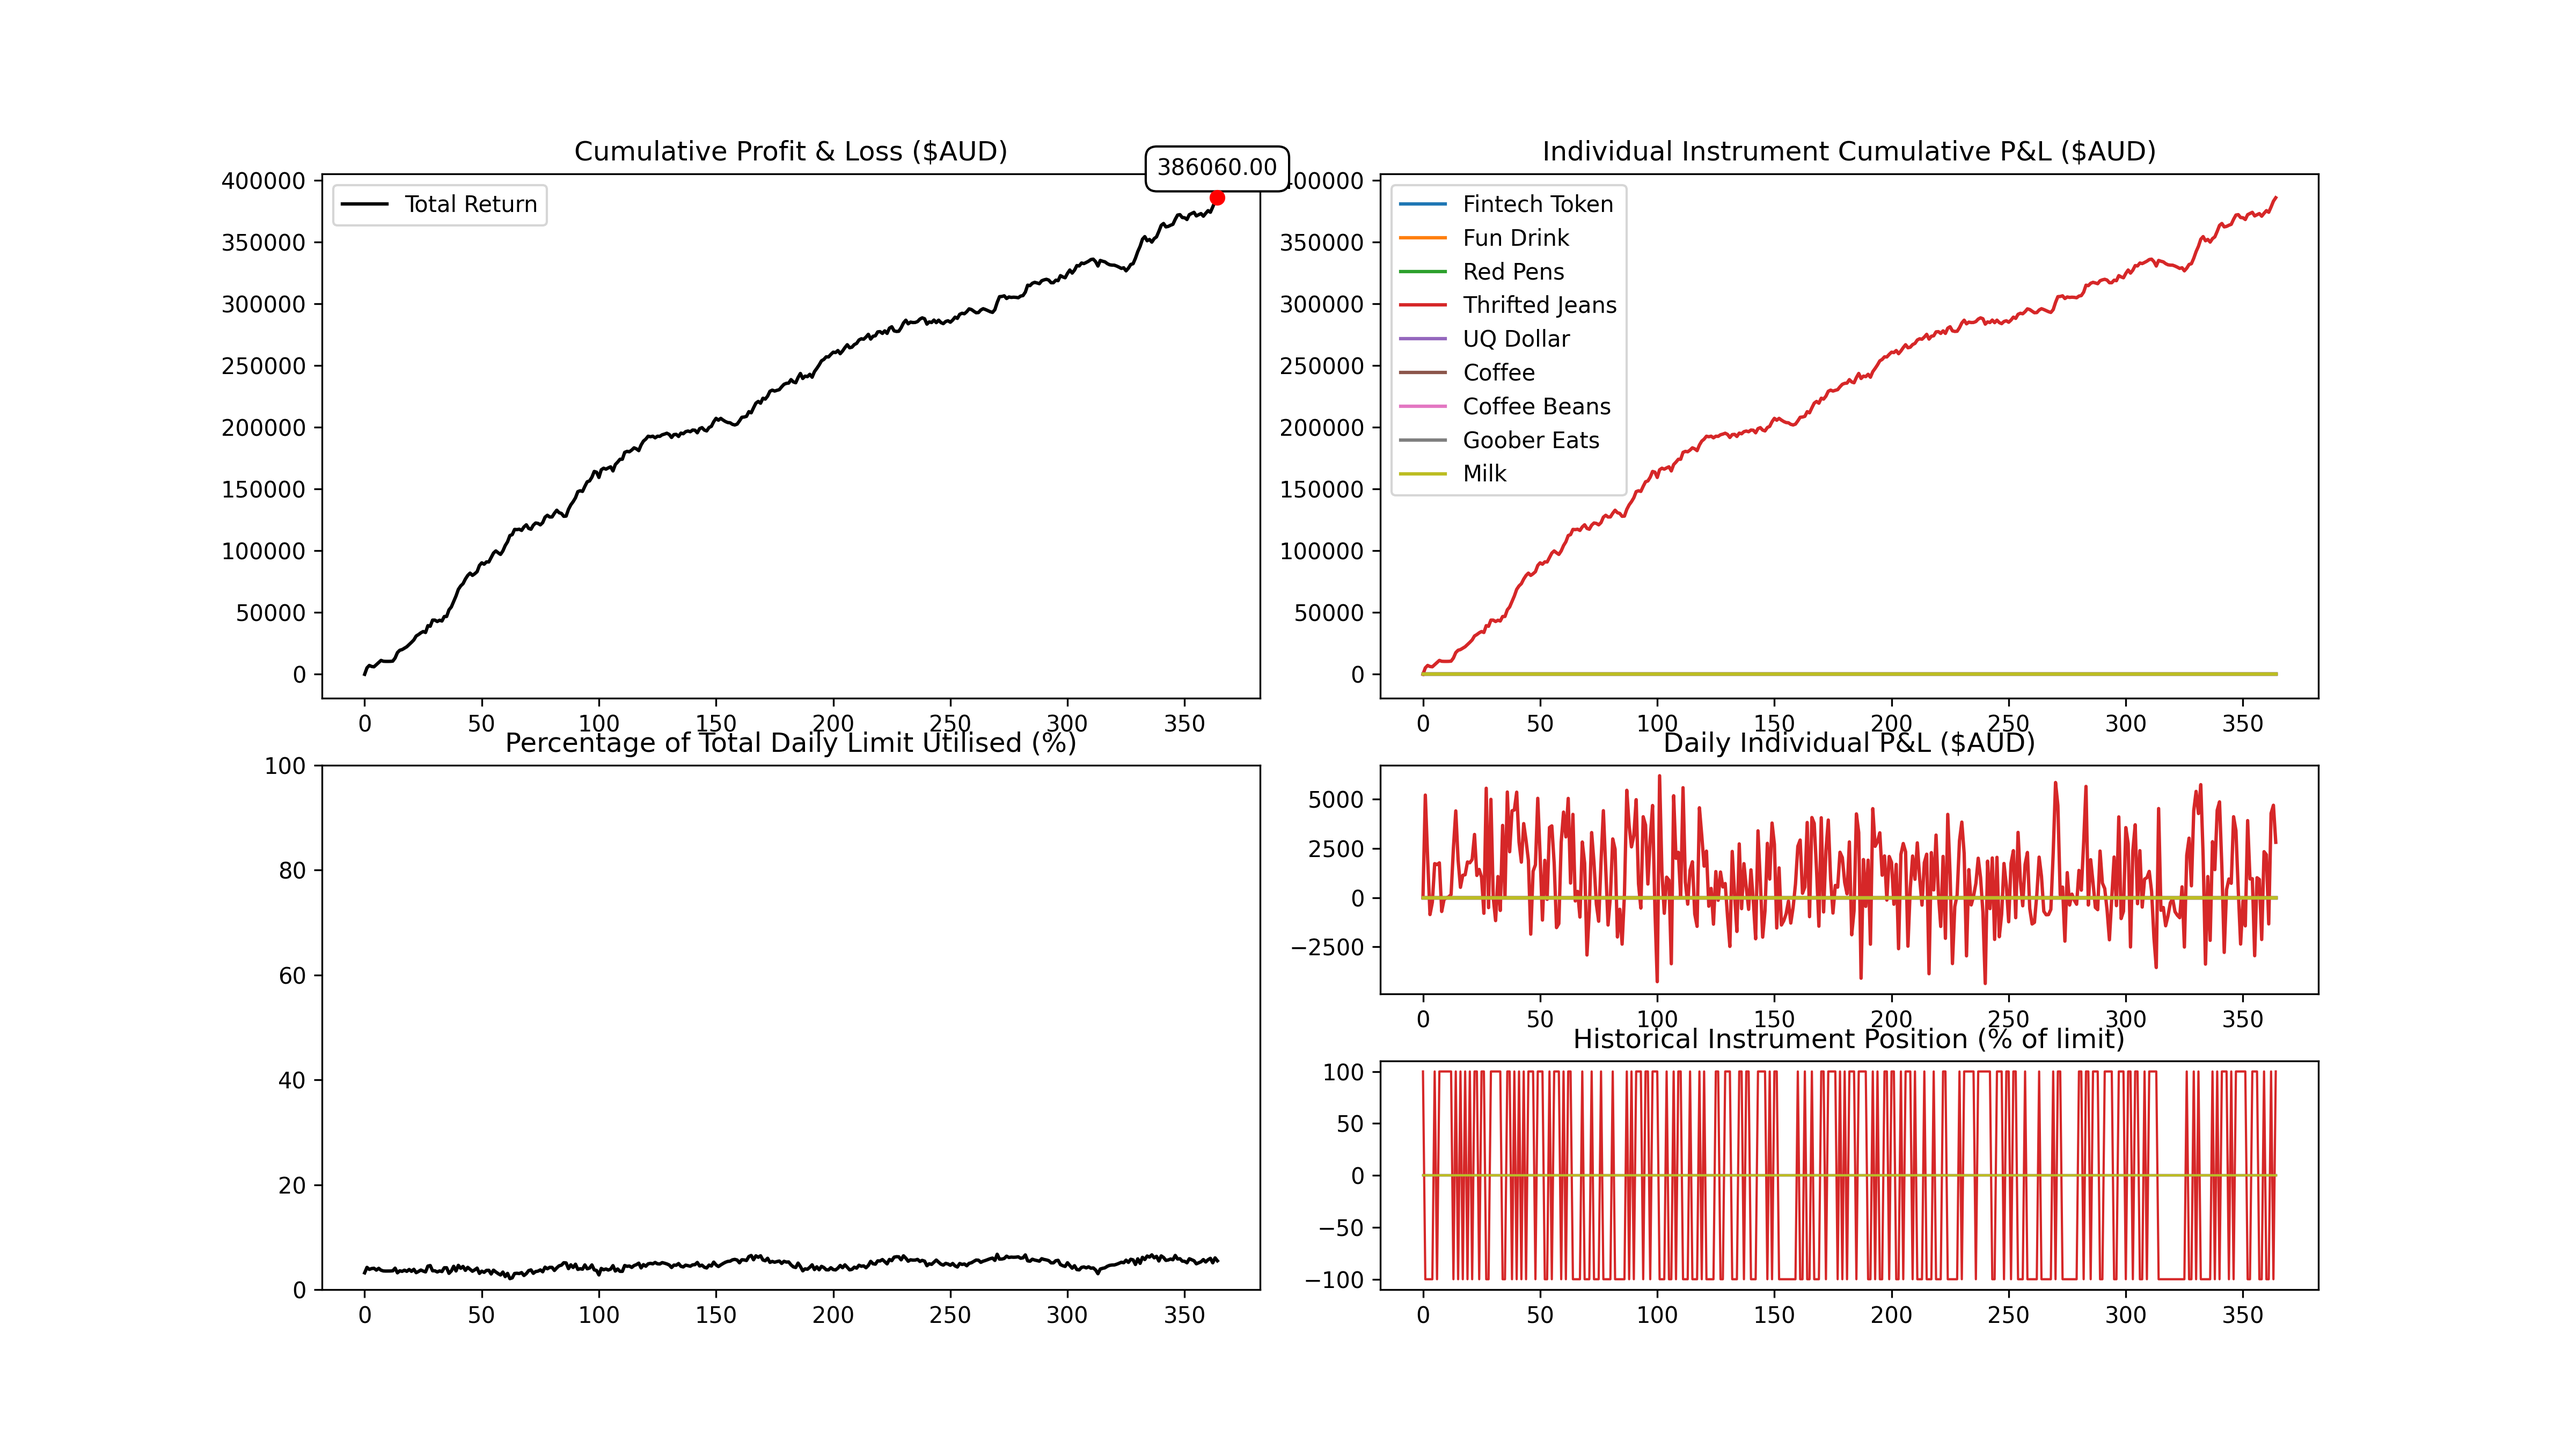
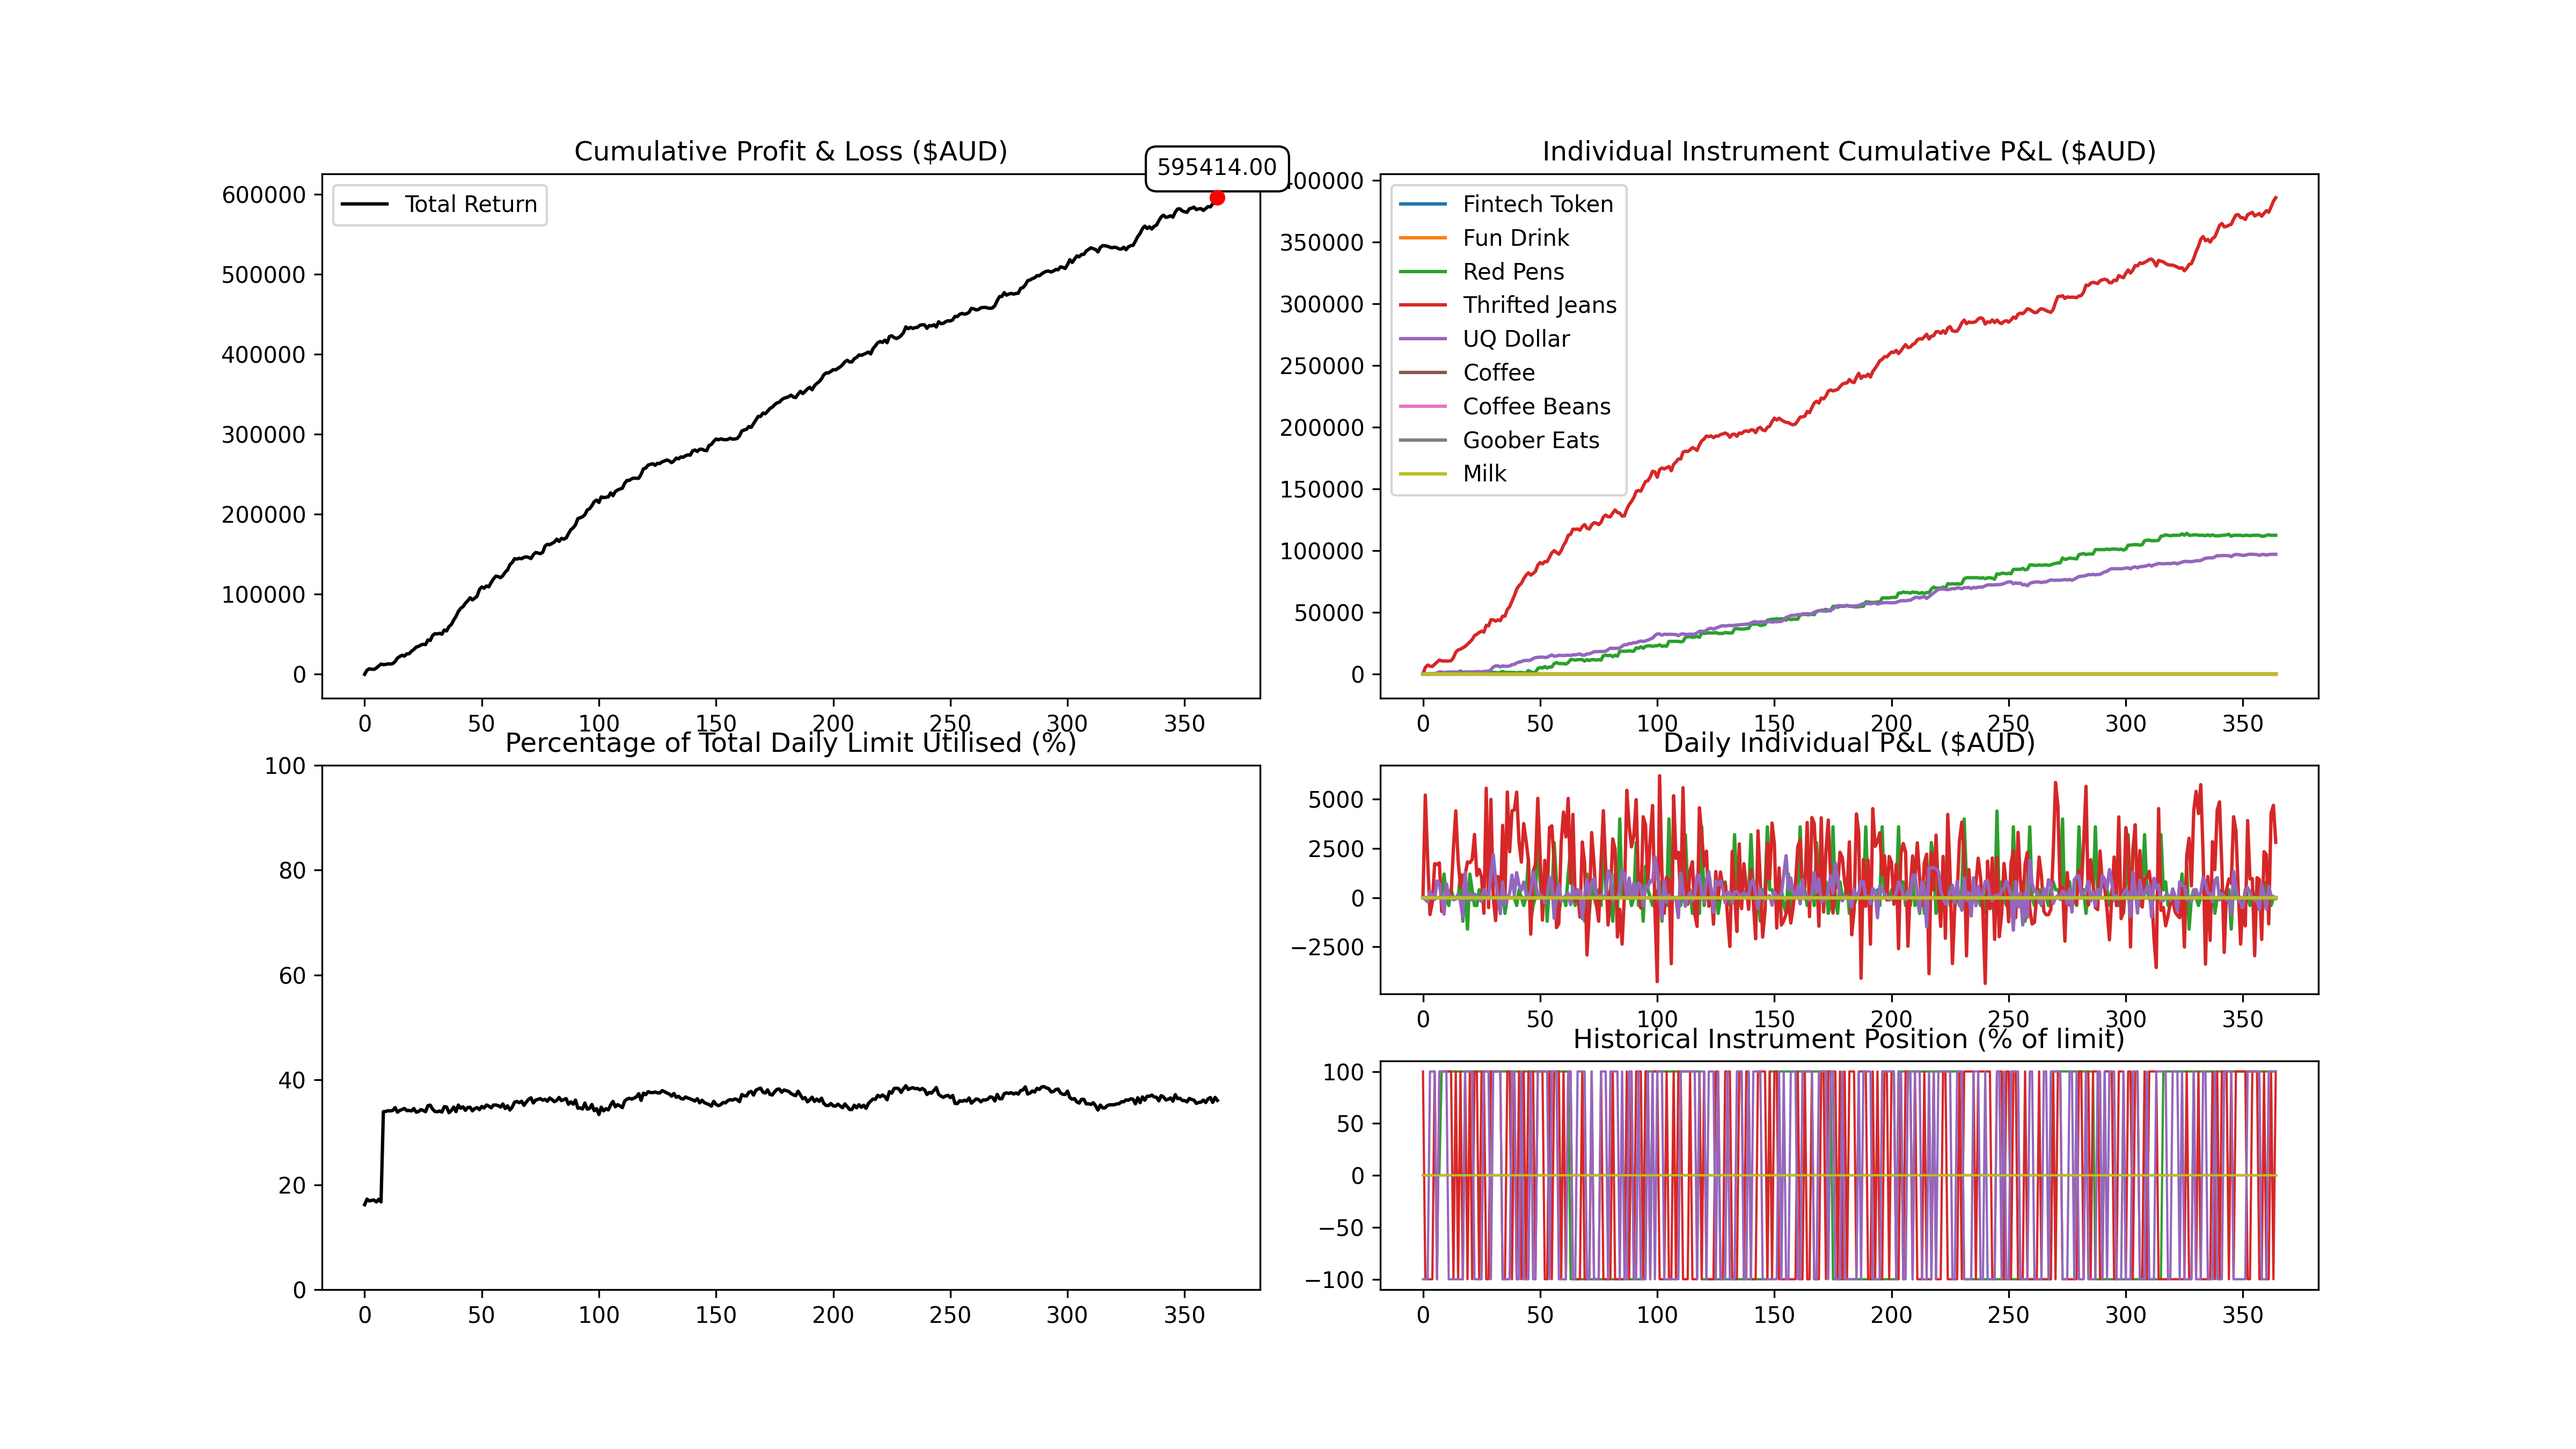
Fixed a couple of things broken in the merge

diff --git a/algorithm.py b/algorithm.py
@@ -44,7 +44,6 @@ class Algorithm():
         # Buy thrifted jeans maximum amount
         desiredPositions["UQ Dollar"] = self.get_uq_dollar_position(currentPositions["UQ Dollar"], positionLimits["UQ Dollar"])
         
-        desiredPositions["Thrifted Jeans"] = positionLimits["Thrifted Jeans"]
         jeans_df = pd.DataFrame(self.data["Thrifted Jeans"])
         jeans_df['EMA5'] = jeans_df[0].ewm(span=4, adjust=False).mean()
         # Buy if the price is above the 5 day EMA
@@ -67,7 +66,6 @@ class Algorithm():
         price = self.get_current_price("UQ Dollar")
         diff = avg - price
         boundary = max(self.data["UQ Dollar"]) - avg
-        print(f"boundary: {boundary}")
 
         if diff > 0.15:
             delta = limit * 2 # int(np.exp(diff / boundary * 2) * limit)
@@ -83,8 +81,8 @@ class Algorithm():
         else:
             desiredPosition = currentPosition + delta
 
-        print(f"OLD: {currentPosition}, NEW: {desiredPosition}")
-        
+        return desiredPosition
+
     def get_red_pens_position(self, currentPosition, limit):
 
         # avg = self.penData.rolling(window=10, min_periods=1, on="Price").mean().at[self.day, "Price"]
@@ -114,7 +112,5 @@ class Algorithm():
             desiredPosition = -1 * limit
         else:
             desiredPosition = currentPosition
-
-        print(f"Old position: {currentPosition}, new position: {desiredPosition}")
 
         return desiredPosition
